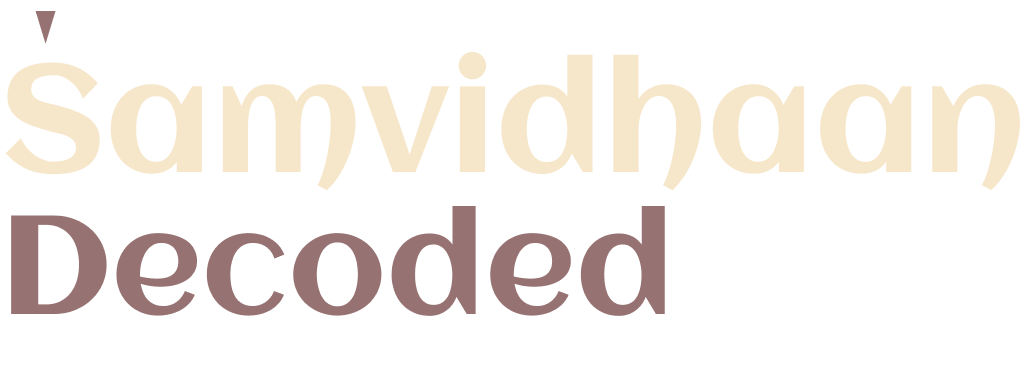
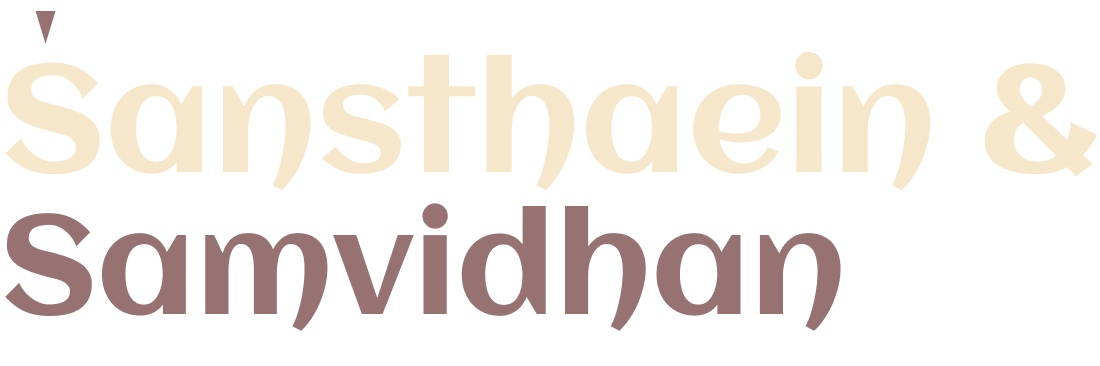
Fixed error and updated the title of project

Changed region(s): [[0.0624, 0.1202, 0.9981, 0.5109], [0.0, 0.541, 0.7797, 0.9016], [0.0312, 0.0301, 0.0624, 0.1202]]

diff --git a/src/components/LayOut.jsx b/src/components/LayOut.jsx
@@ -39,8 +39,8 @@ const Layout = ({ children }) => {
         <nav>
           <div className="header-content">
             <Link to="/" className="nav-li name" onClick={handleLogoClick}>
-              <img src={mainLogo} height="55" width="55" alt="Logo" /> संविधान
-              Decode<span>d</span>
+              <img src={mainLogo} height="55" width="55" alt="Logo" />
+              संस्थान & संविधान
             </Link>
             <div className="header-buttons">
               <Link
